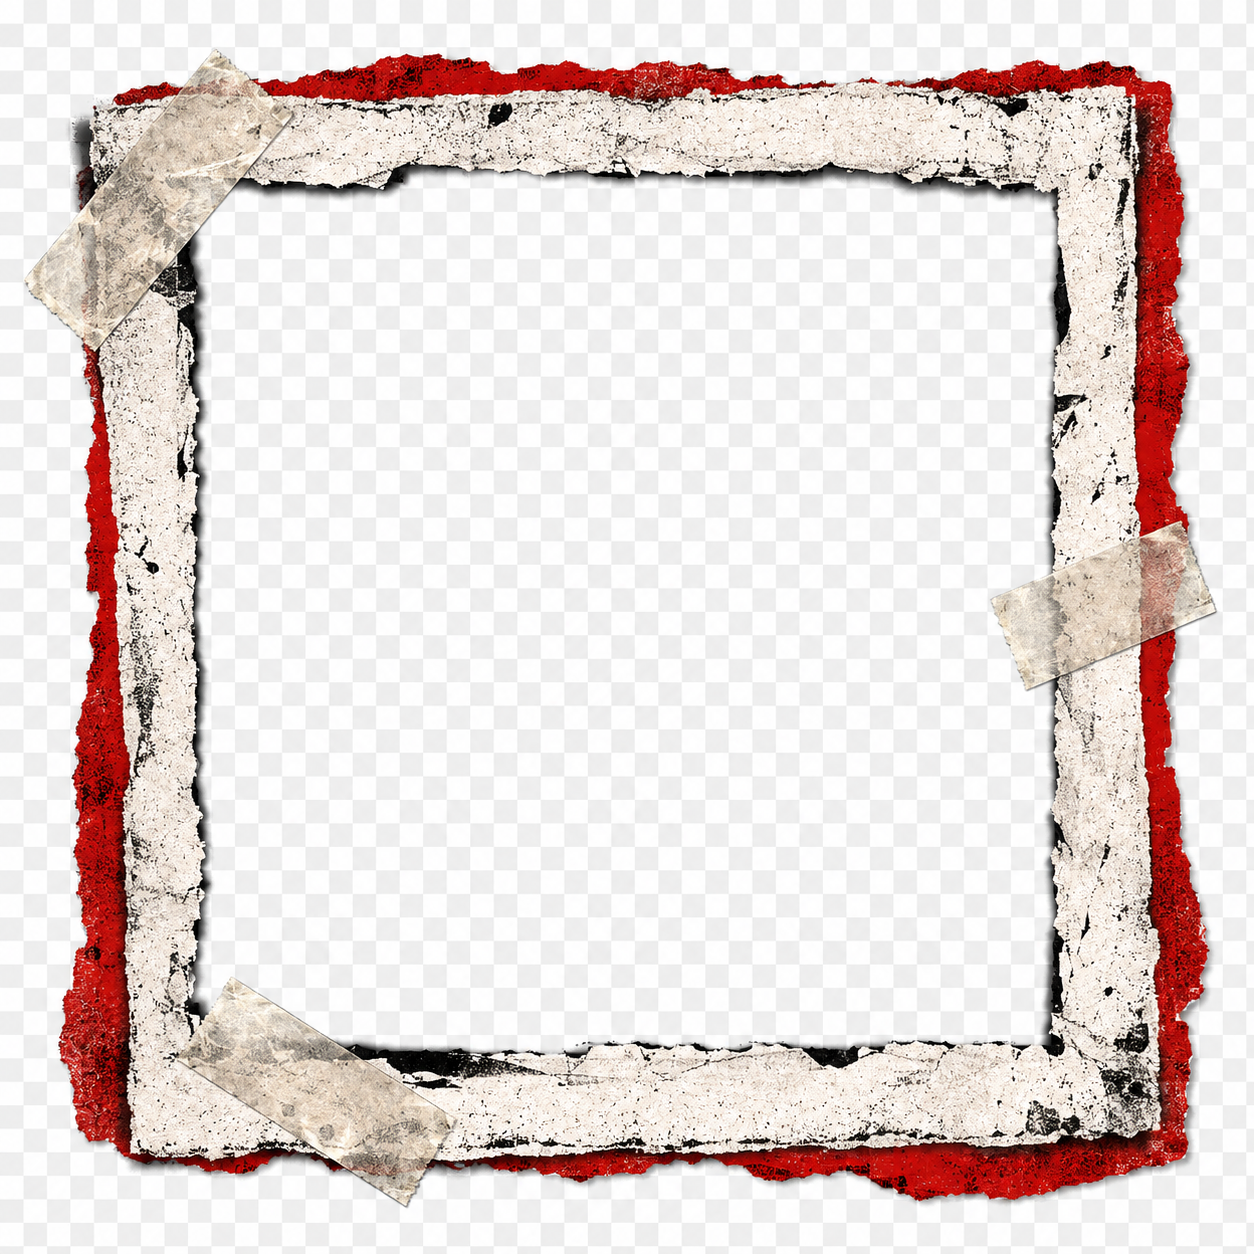
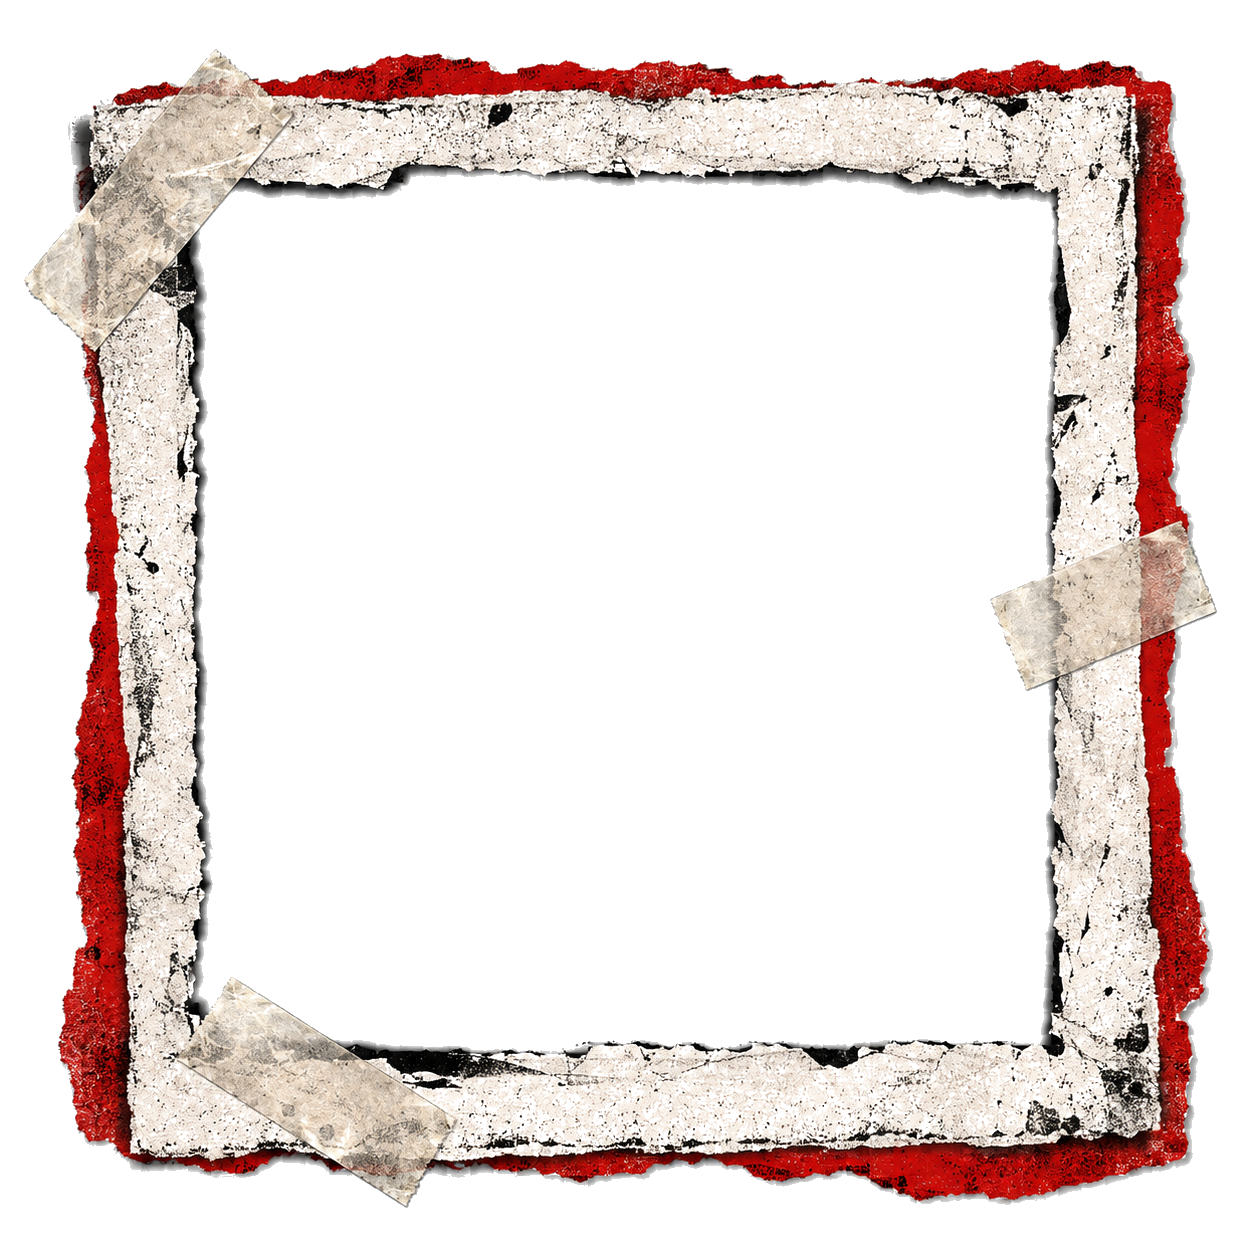
Refine Walrus poster live TV base

diff --git a/src/pages/LiveTvScreenWalrusPoster.jsx b/src/pages/LiveTvScreenWalrusPoster.jsx
@@ -94,7 +94,7 @@ export default function LiveTvScreenWalrusPoster() {
     { id: 'fallback-1', song: { title: 'Do I Wanna Know?', artist: 'Arctic Monkeys', cover: 'https://images.unsplash.com/photo-1619983081563-430f63602796?w=200&h=200&fit=crop&q=80' }, table: 'WALRUS' },
     { id: 'fallback-2', song: { title: 'Seven Nation Army', artist: 'The White Stripes', cover: 'https://images.unsplash.com/photo-1514525253161-7a46d19cd819?w=200&h=200&fit=crop&q=80' }, table: 'WALRUS' }
   ];
-  
+
   const displayQueue = approvedQueue.length > 0 ? approvedQueue : fallbackQueue;
 
   // Track changes to trigger takeover screen
@@ -862,7 +862,7 @@ export default function LiveTvScreenWalrusPoster() {
       )}
 
       <div className="poster-main-layout">
-        
+
         {/* LEFT PANEL */}
         <div className="poster-left-panel">
           <div className="poster-header">
@@ -881,7 +881,7 @@ export default function LiveTvScreenWalrusPoster() {
           {currentRequest ? (
             <div className="poster-now-playing">
               <div className="poster-cover-hero-container">
-                
+
                 {/* Vinyl / Cover Component */}
                 <div className="poster-vinyl-hero">
                   <div className={`poster-vinyl-disc ${playback.isPlaying ? 'is-playing' : ''}`}>
@@ -891,11 +891,11 @@ export default function LiveTvScreenWalrusPoster() {
                     <img src={currentRequest.song.cover} alt="" className="poster-sleeve-img" />
                   </div>
                 </div>
-                
+
                 <div className="poster-song-info-block">
                   <h1 className="poster-song-title">{currentRequest.song.title}</h1>
                   <h2 className="poster-song-artist">{currentRequest.song.artist}</h2>
-                  
+
                   <div style={{ alignSelf: 'flex-start' }}>
                     <div className="poster-requester-badge">
                       REQUESTED BY TAVOLO {currentRequest.table}
@@ -911,8 +911,8 @@ export default function LiveTvScreenWalrusPoster() {
               </div>
 
               <div className="poster-progress-container">
-                <div 
-                  className="poster-progress-fill" 
+                <div
+                  className="poster-progress-fill"
                   style={{ width: `${(playback.progress / playback.duration) * 100}%` }}
                 ></div>
               </div>
@@ -931,7 +931,7 @@ export default function LiveTvScreenWalrusPoster() {
 
         {/* RIGHT PANEL */}
         <div className="poster-right-panel">
-          
+
           <div className="poster-qr-box">
             <svg className="poster-qr-svg" viewBox="0 0 100 100">
               {/* Fake QR blocks */}
@@ -955,7 +955,7 @@ export default function LiveTvScreenWalrusPoster() {
               <rect x="75" y="80" width="10" height="10" fill="black" />
             </svg>
             <div className="poster-qr-text">
-              <h4>YOUR MUSIC<br/>HERE</h4>
+              <h4>YOUR MUSIC<br />HERE</h4>
               <p>SCAN QR AT TABLE</p>
             </div>
           </div>
@@ -968,7 +968,7 @@ export default function LiveTvScreenWalrusPoster() {
           </div>
 
           <div className="poster-queue-title">UPCOMING TRACKS</div>
-          
+
           <div className="poster-queue-list">
             {displayQueue.map((req, idx) => (
               <div key={req.id} className="poster-queue-item">